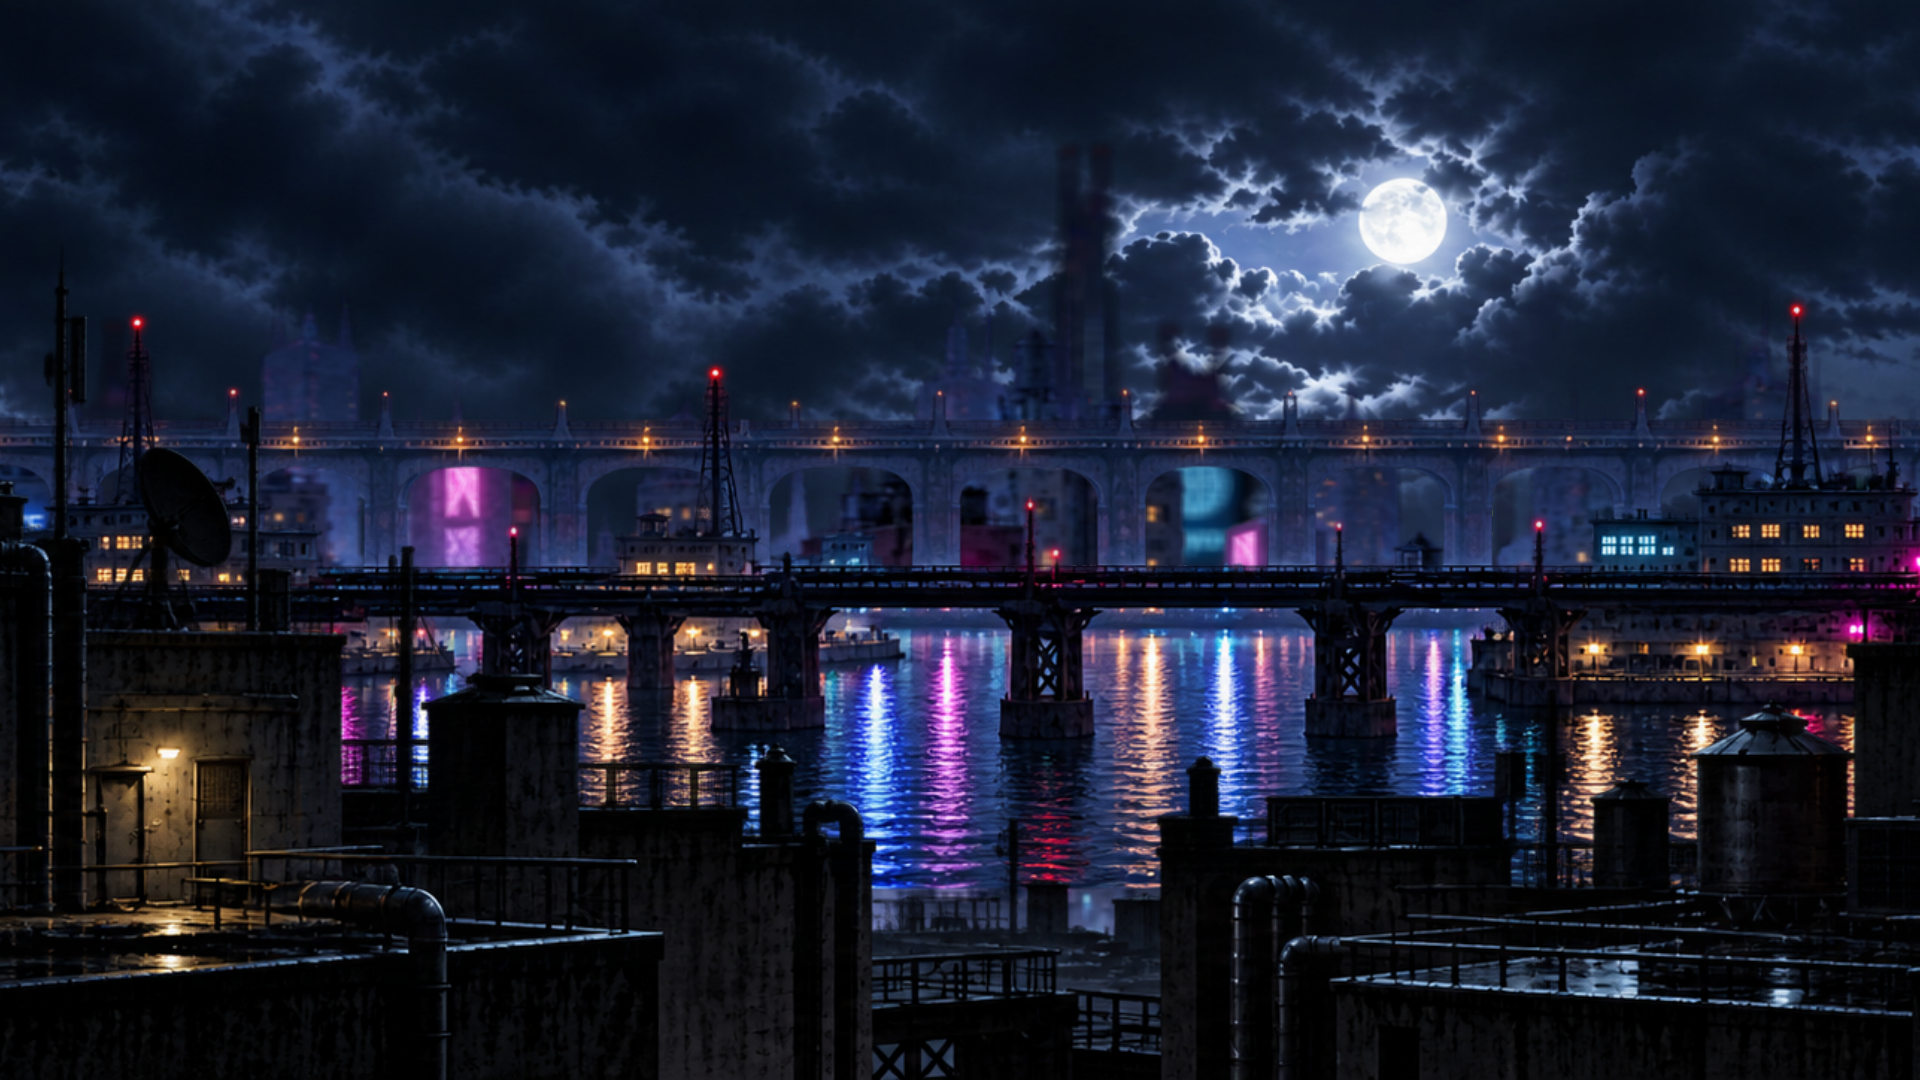
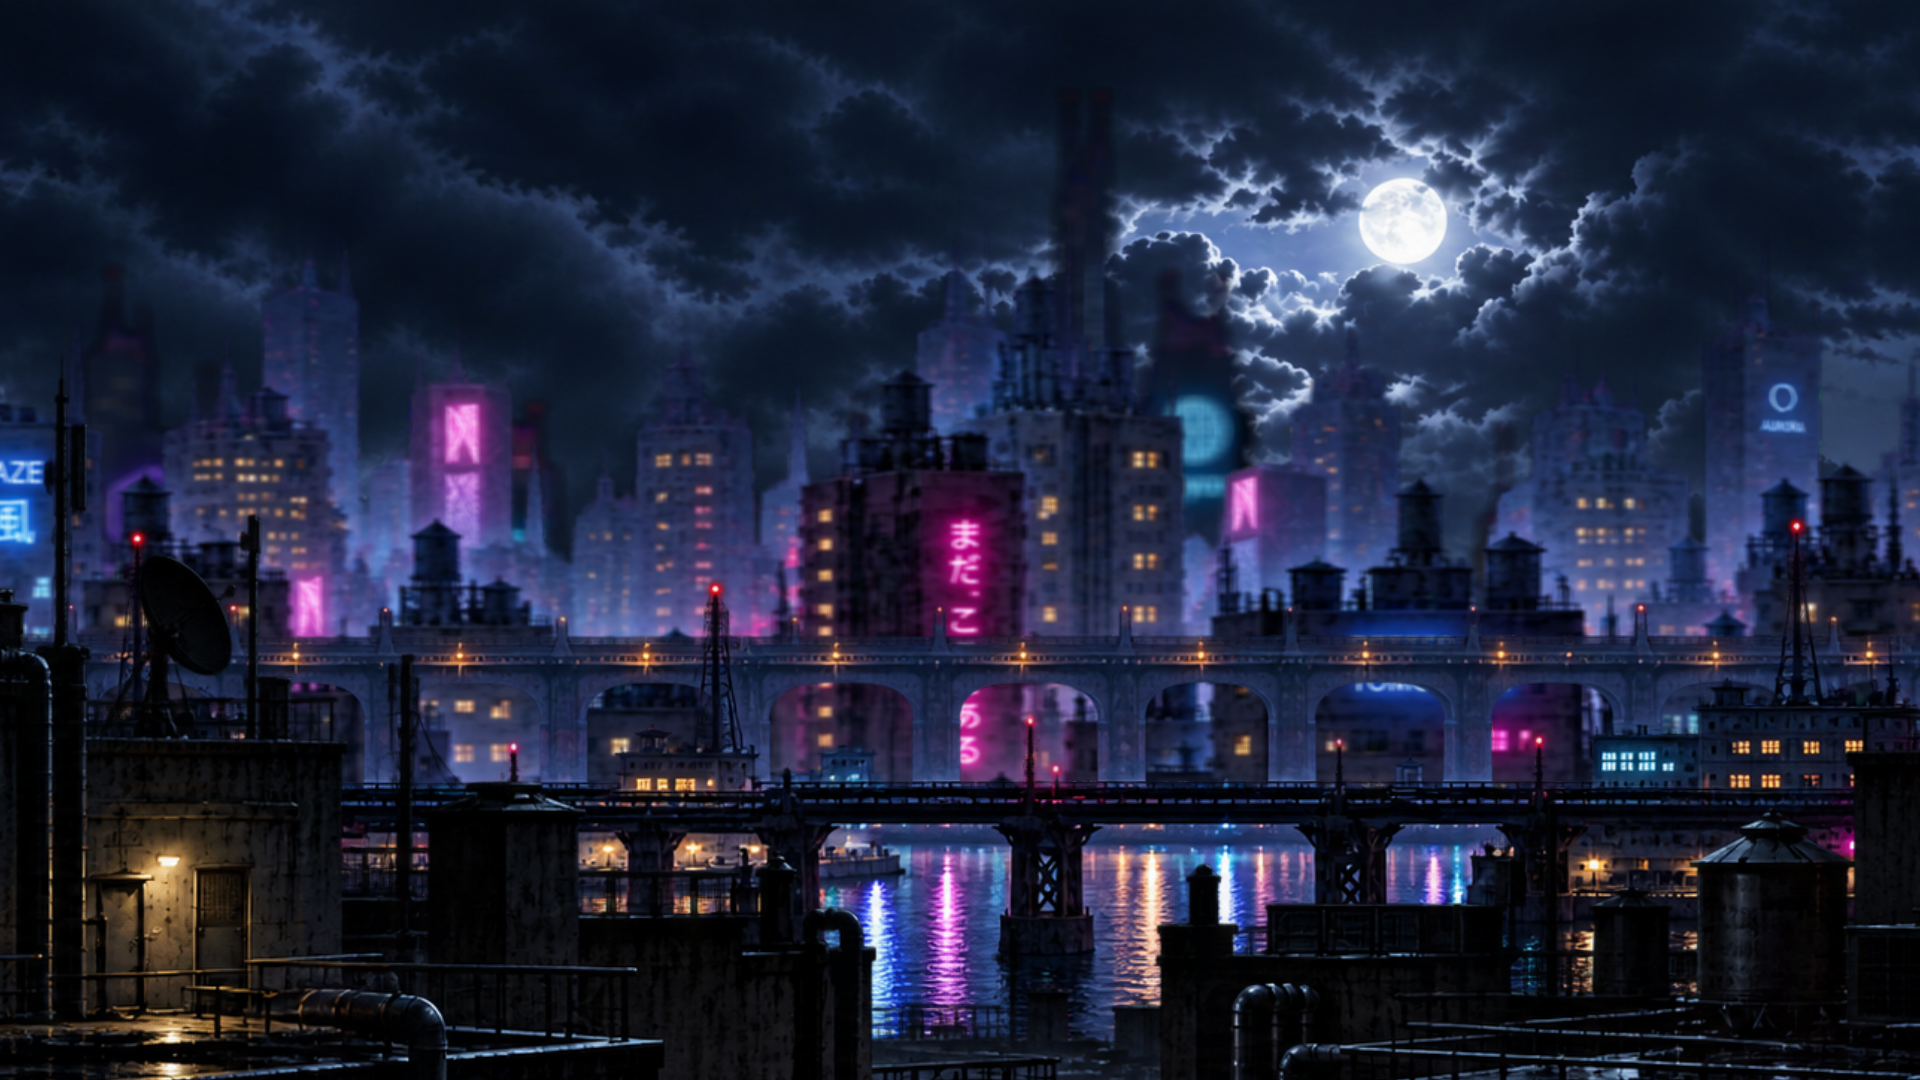
fix: reveal skyline with vertical layer offsets

diff --git a/docs/wallpaper.md b/docs/wallpaper.md
@@ -4,13 +4,19 @@
 the Hyprlax package. No stock demo images are installed. The existing package
 path, `share/hyprlax/pixel-city/parallax.toml`, keeps the launcher compatible.
 
-| Image | Role | Shift multiplier | Draw order |
-| --- | --- | ---: | ---: |
-| `4.png` | Fixed sky | 0.0 | 1 (back) |
-| `3.png` | Distant city | 0.3 | 2 |
-| `2.png` | Middle city | 0.5 | 3 |
-| `1.png` | Near city | 1.0 | 4 |
-| `0.png` | Fixed camera / rooftop | 0.0 | 5 (front) |
+| Image | Role | Shift multiplier | Vertical placement | Draw order |
+| --- | --- | ---: | --- | ---: |
+| `4.png` | Fixed sky | 0.0 | Unchanged | 1 (back) |
+| `3.png` | Distant city | 0.3 | Up 5% | 2 |
+| `2.png` | Middle city | 0.5 | Up 5% | 3 |
+| `1.png` | Near city | 1.0 | Down 20% | 4 |
+| `0.png` | Fixed camera / rooftop | 0.0 | Down 10% | 5 (front) |
+
+Per-layer `uv_offset.y` exposes the skyline above the foreground: negative values
+move the artwork down, positive values move it up. Offsets are fractions of image
+height; at the 1920×1080 viewport, these correspond to 108 pixels down for image 0,
+216 pixels down for image 1, and 54 pixels up for images 2 and 3. The sky stays in
+place. These fixed composition offsets do not change the parallax speeds.
 
 The starting point is [Hyprlax v2.2.7's pixel-city TOML](https://github.com/sandwichfarm/hyprlax/blob/v2.2.7/examples/pixel-city/parallax.toml).
 All global values are retained: workspace input, 5% shift, four-second expo
@@ -44,8 +50,8 @@ cmp /tmp/3.png config/hyprlax/3.png
 The capture viewport is **1920×1080 (16:9)**. The screenshot retains that native
 resolution; the animation is encoded at **1280×720**, preserving the same aspect
 ratio. Hyprlax uses its existing `cover` fit to crop the wide artwork to the
-viewport. Neither the Hyprland nor Hyprlax configuration was changed for this
-recapture.
+viewport. This capture includes the per-layer vertical placement described above;
+the shipped Hyprland configuration is unchanged.
 
 The captures use unmodified Hyprlax **2.2.7** (`make CI=1`) in an isolated,
 headless **Sway 1.9** session on Linux arm64 with software rendering. The source
@@ -86,7 +92,8 @@ nix build .#checks.x86_64-linux.desktop-config
 ```
 
 The desktop check enforces the five-image set, back-to-front order, fixed layers,
-descending city speeds, valid PNG headers, and the upstream global defaults.
+descending city speeds, vertical placement, valid PNG headers, and the upstream
+global defaults.
 
 For an isolated capture, use Sway, grim, Pillow, and the built Hyprlax binary.
 Create `/tmp/kwak-wallpaper-runtime` with mode 0700, owned by the test user.

diff --git a/README.md b/README.md
@@ -84,6 +84,8 @@ kinetic scrolling. The grid has a fixed 640-pixel logical width.
 [pixel-city configuration](https://github.com/sandwichfarm/hyprlax/blob/v2.2.7/examples/pixel-city/parallax.toml).
 The sky (`4.png`) and camera foreground (`0.png`) stay fixed. The city layers
 move at multipliers **1.0**, **0.5**, and **0.3** for images **1**, **2**, and **3**.
+The foreground is lowered 10% (image 0) and 20% (image 1); city layers 2 and 3
+are raised 5% to reveal the skyline.
 Workspace input, 5% shift, four-second expo easing, 144 FPS, and horizontal tiling
 retain the demo defaults. [Wallpaper proof and reproduction](docs/wallpaper.md).
 
